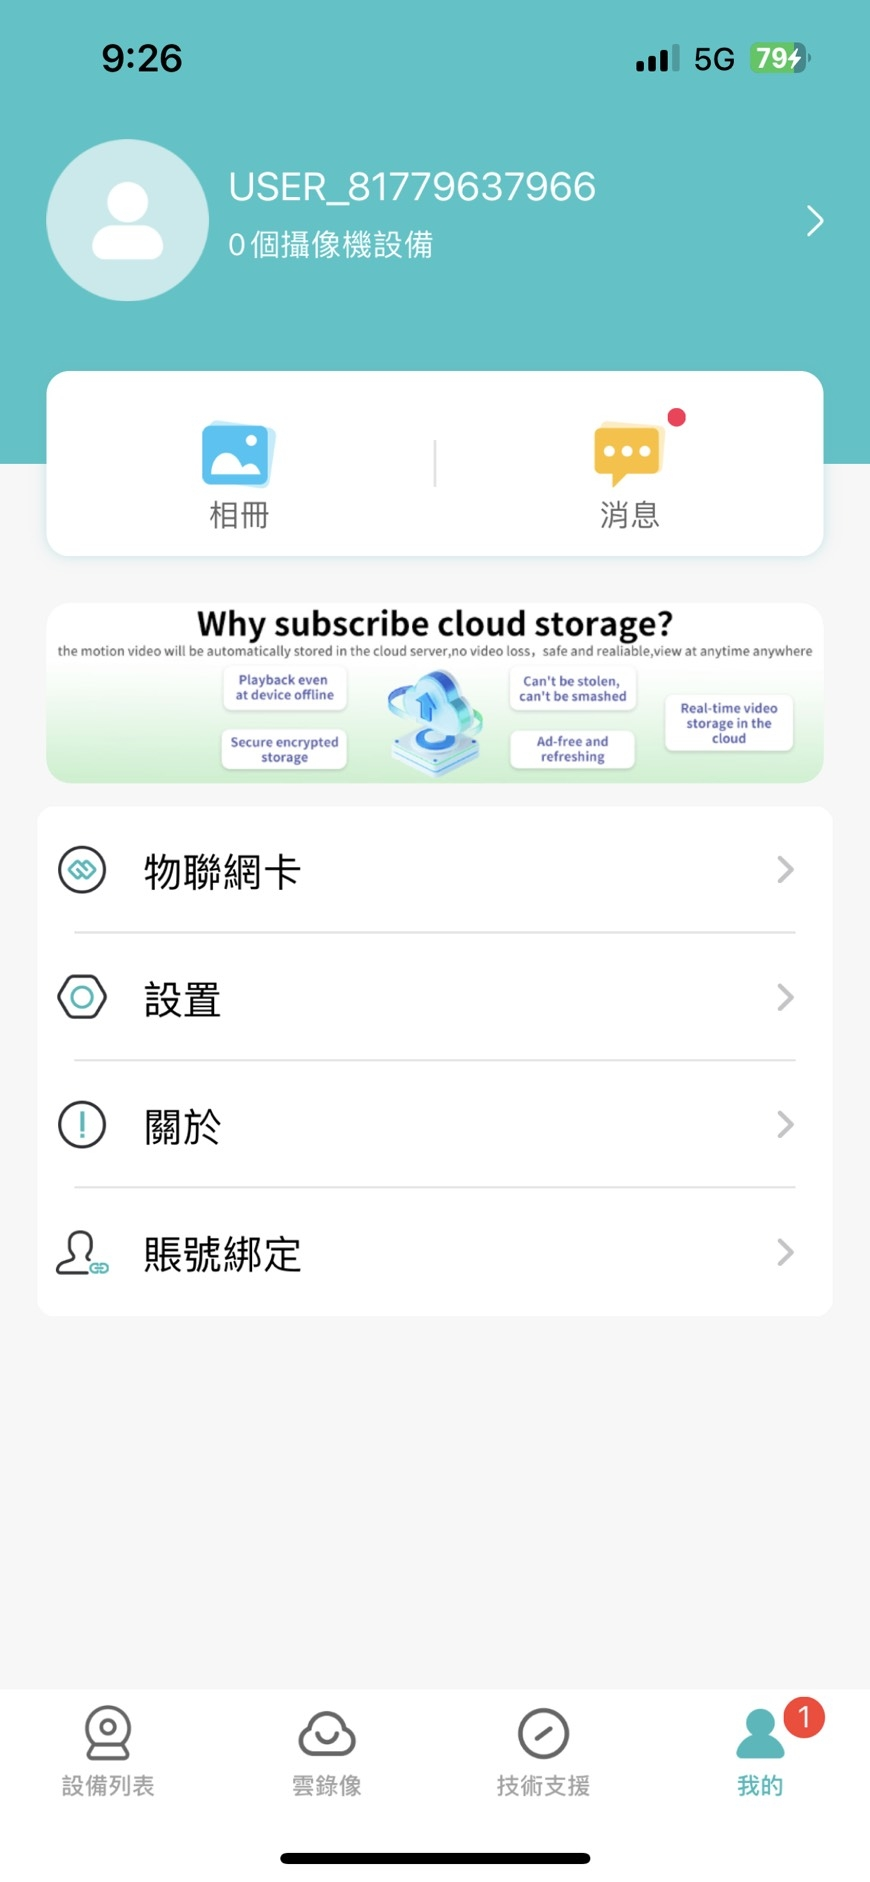
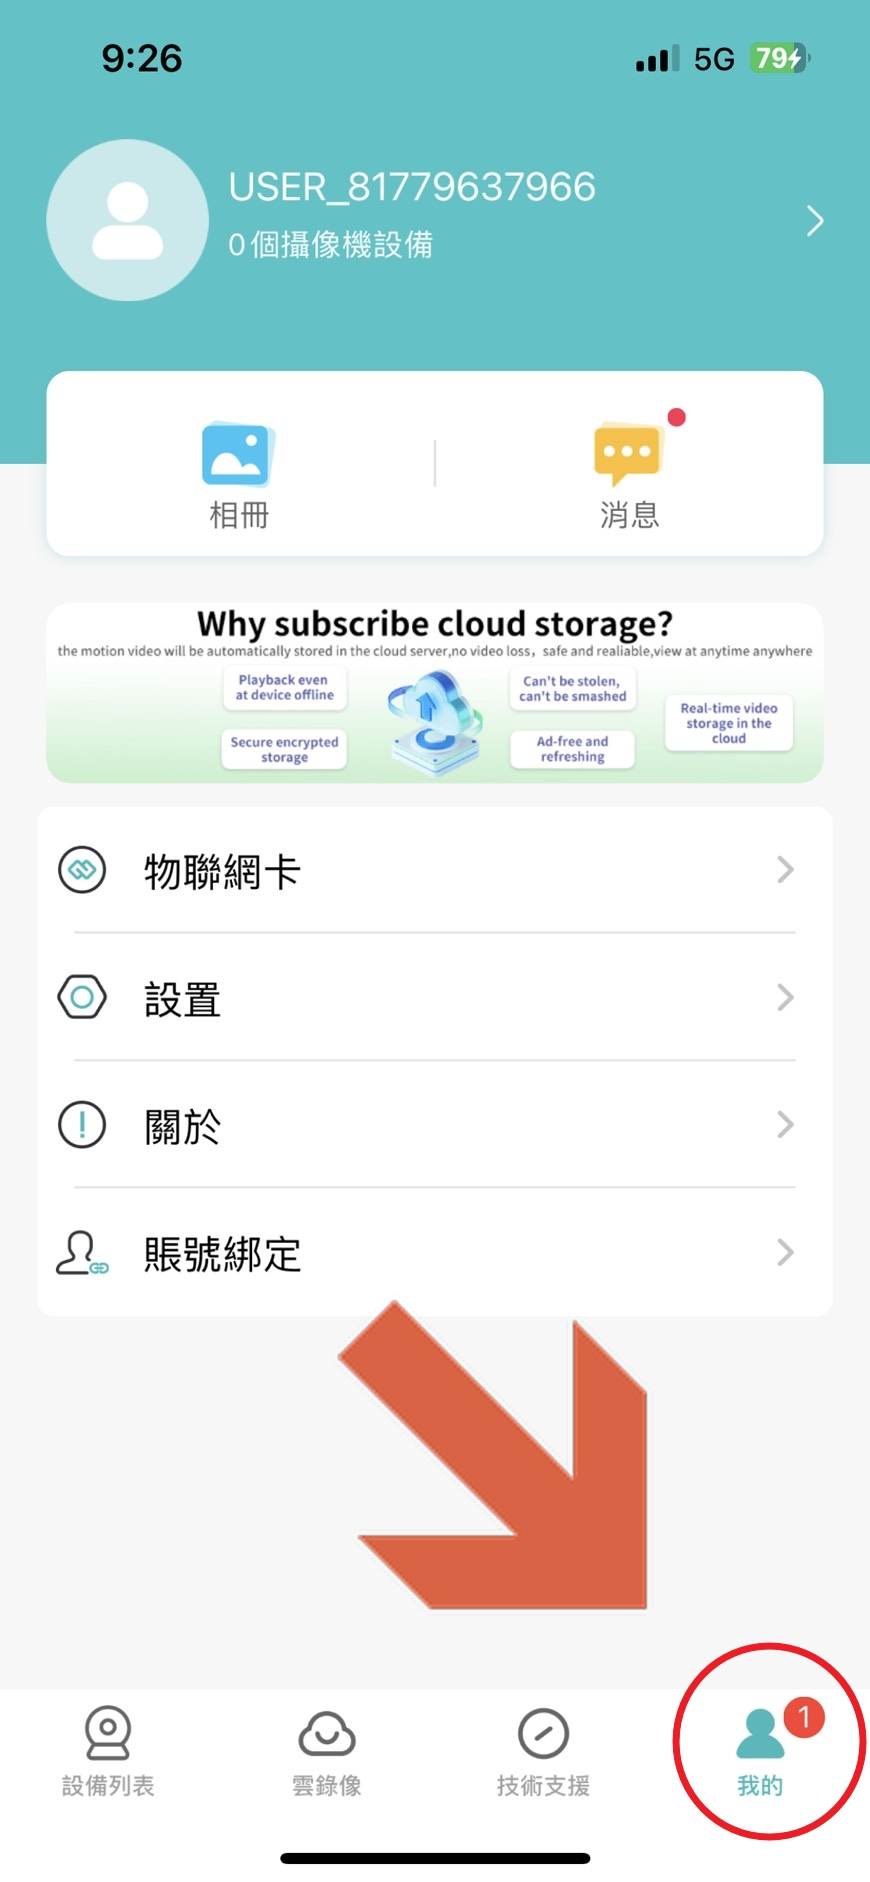
Add files via upload

diff --git a/lws380.html b/lws380.html
@@ -136,13 +136,14 @@ body{
 
   <div class="step">
     <div class="stepTitle">步驟 1｜註冊帳號</div>
-    <div class="stepDesc">依照畫面完成註冊</div>
+    <div class="stepDesc">帳號：您的信箱</div>
+    <div class="stepDesc">密碼：自行設定</div>
     <img src="A1.jpg" alt="註冊帳號">
   </div>
 
   <div class="step">
     <div class="stepTitle">步驟 2｜點選「我的」</div>
-    <div class="stepDesc">請依照圖片點選「我的」</div>
+    <div class="stepDesc">點選圖片右下「我的」</div>
     <img src="A2.jpg" alt="點選我的">
   </div>
 
@@ -153,10 +154,23 @@ body{
   </div>
 
   <div class="step">
-    <div class="stepTitle">步驟 4｜截圖回傳給我們</div>
-    <div class="stepDesc">請將完成畫面截圖並傳送至官方 LINE</div>
-    <img src="A4.jpg" alt="截圖回傳給我們">
+  <div class="stepTitle">步驟 4｜截圖回傳給我們</div>
+
+  <div class="stepDesc">
+    完成綁定後，請依照以下流程操作，並將最後畫面截圖回傳給安建官方 LINE
   </div>
+
+  <img src="A4.jpg" alt="步驟4-1">
+
+  <div style="height:15px;"></div>
+
+  <img src="A5.jpg" alt="步驟4-2">
+
+  <div style="height:15px;"></div>
+
+  <img src="A6.jpg" alt="步驟4-3">
+
+</div>
 
   <a class="lineBtn"
      href="https://lin.ee/v7PEpQ7"